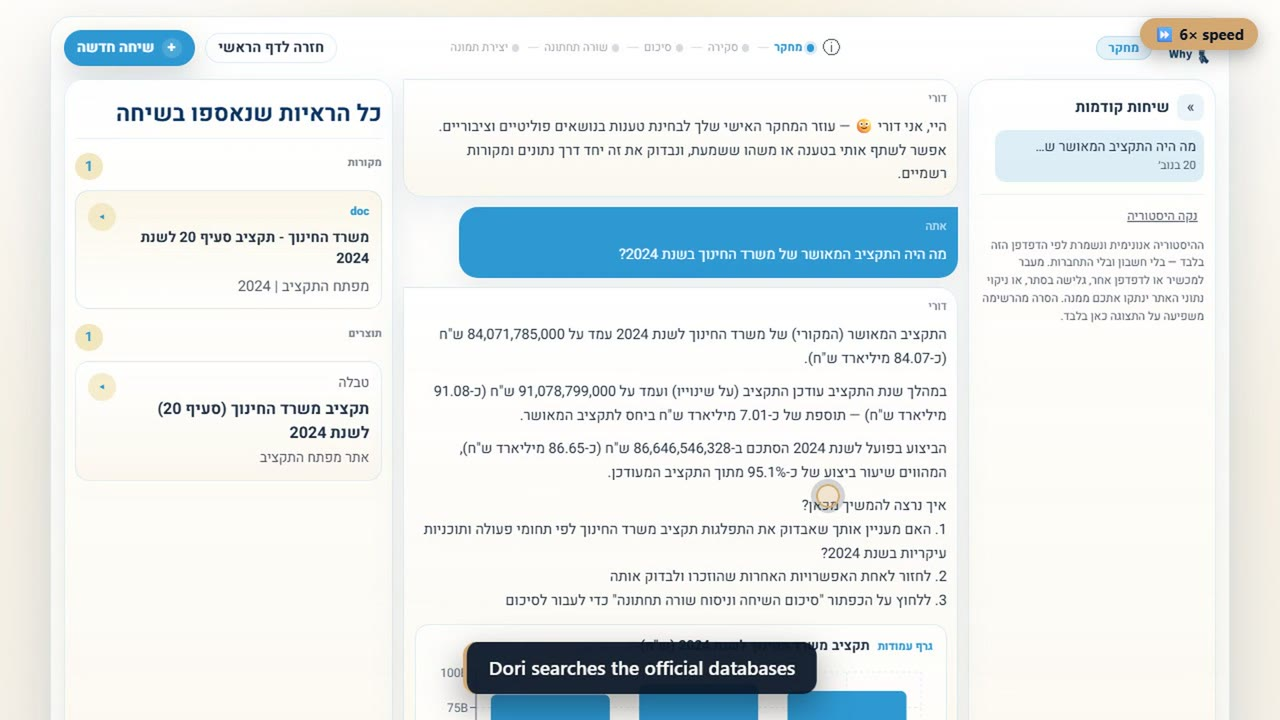
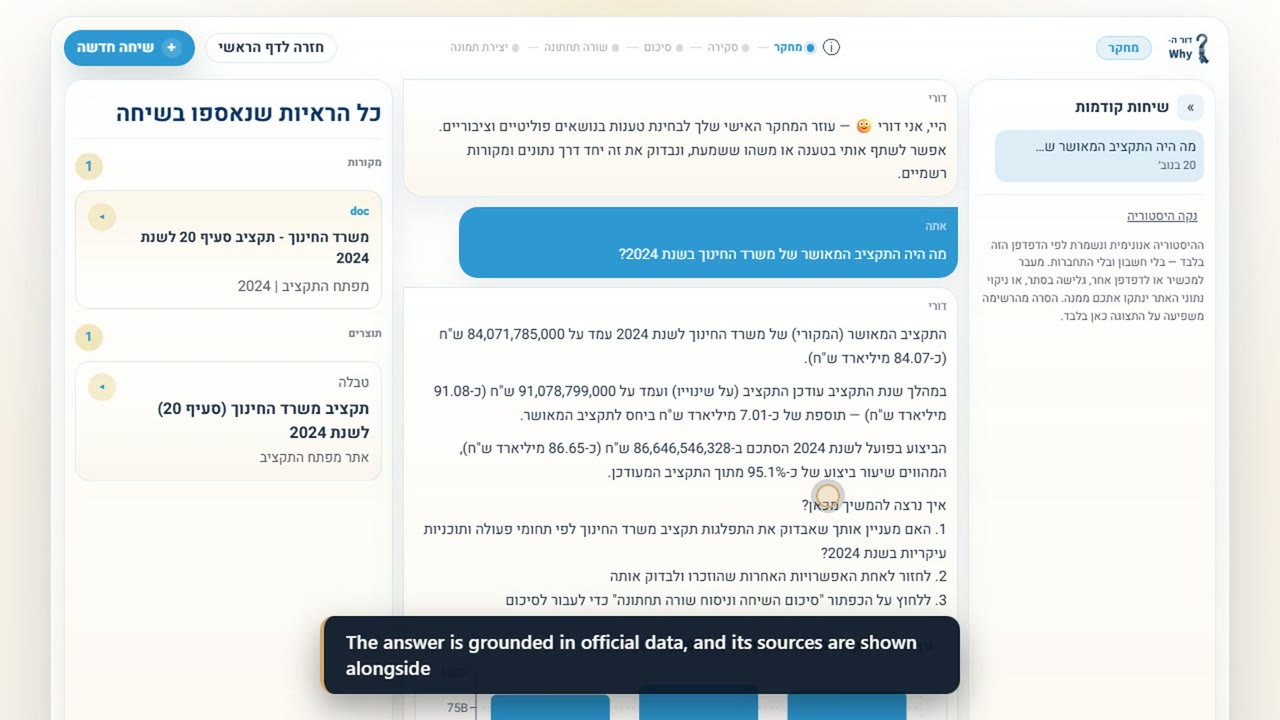
Show the Dor ha-Why and Table Tennis demo videos
Both projects now open their demo video from the project frame and the
Watch demo link, like the other five. New Dor ha-Why poster shows the
cited answer.

Changed region(s): [[0.2188, 0.8556, 0.7812, 1.0], [0.875, 0.0, 1.0, 0.0917]]

diff --git a/src/data/projects.ts b/src/data/projects.ts
@@ -48,6 +48,8 @@ export const projects: Project[] = [
     ],
     tech: ["TypeScript", "Next.js", "Mastra", "Multi-agent systems", "Tool calling", "Grounded retrieval"],
     metrics: [{ value: "4,000+", label: "Queries in two months" }, { value: "3,200+", label: "Conversations" }, { value: "1,172", label: "Automated tests" }],
+    video: "videos/dor-ha-why.mp4",
+    poster: "videos/dor-ha-why.jpg",
     website: "https://dor-why.co.il",
     featured: true,
   },
@@ -166,6 +168,8 @@ export const projects: Project[] = [
     ],
     tech: ["Python", "YOLO11", "OpenCV", "EasyOCR", "pandas", "Seaborn"],
     metrics: [{ value: "17", label: "Pose keypoints per player" }, { value: "2", label: "Players tracked" }],
+    video: "videos/table-tennis-analyzer.mp4",
+    poster: "videos/table-tennis-analyzer.jpg",
     repo: `${GITHUB}/table_tennis_analyzer`,
   },
 ];
